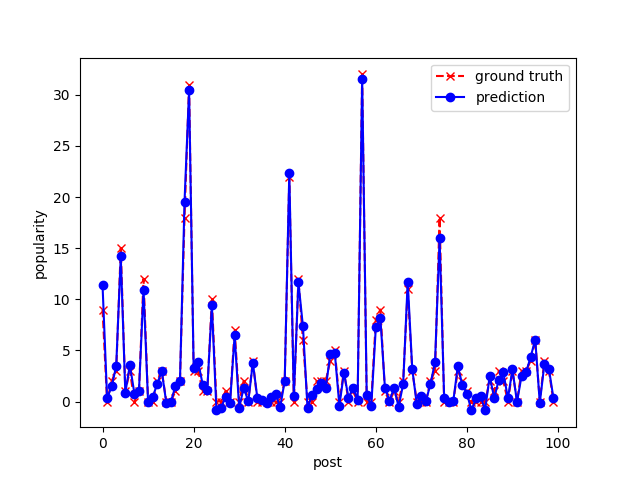
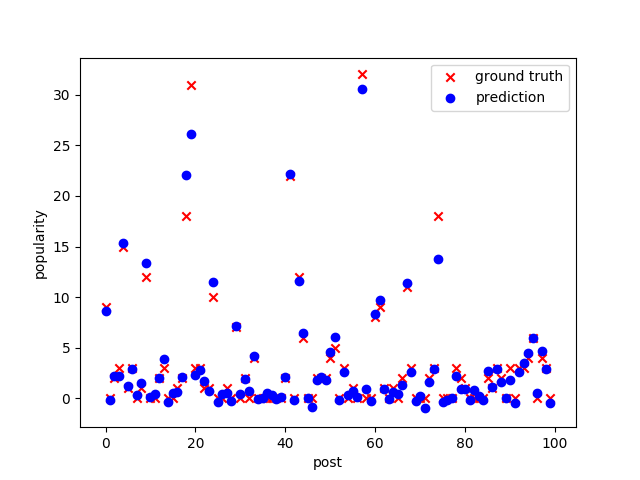
add heatmap for learned adj matrix and remove lines in popularity figure

diff --git a/README.md b/README.md
@@ -46,8 +46,10 @@ The loss keeps decreasing from $0.032$ to $10^{-18}$ in both expectation and max
 
 ### Popularity prediction with GCN only
 
-Popularity prediction is a regression task so the evaluation metric we use is mean squared error (MSE). We perform 10 iteration of EM process, and in each iteration expectation runs 50 epochs and maximization runs 20 epochs. The final MSE on Reddit dataset is $205.05$.
+Popularity prediction is a regression task so the evaluation metric we use is mean absolute error (MAE). We perform 10 iteration of EM process, and in each iteration expectation runs 50 epochs and maximization runs 20 epochs. The final MAE on Reddit dataset is $5.71$.
 
 ![Figure 2](res/popularity_prediction.png)
 
 ![Figure 3](res/popularity_prediction_100.png)
+
+![Figure 4](res/learned_adj.png)
